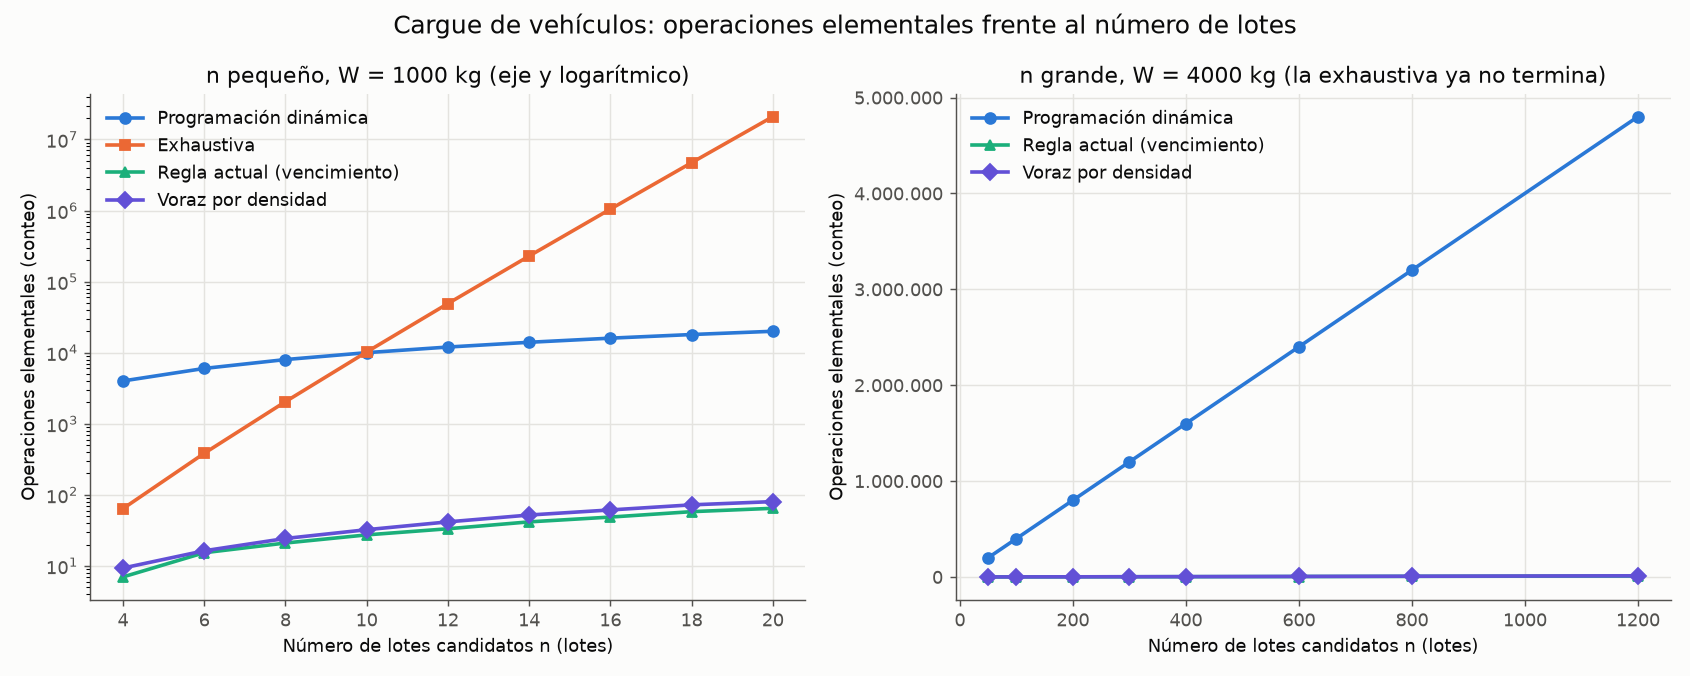
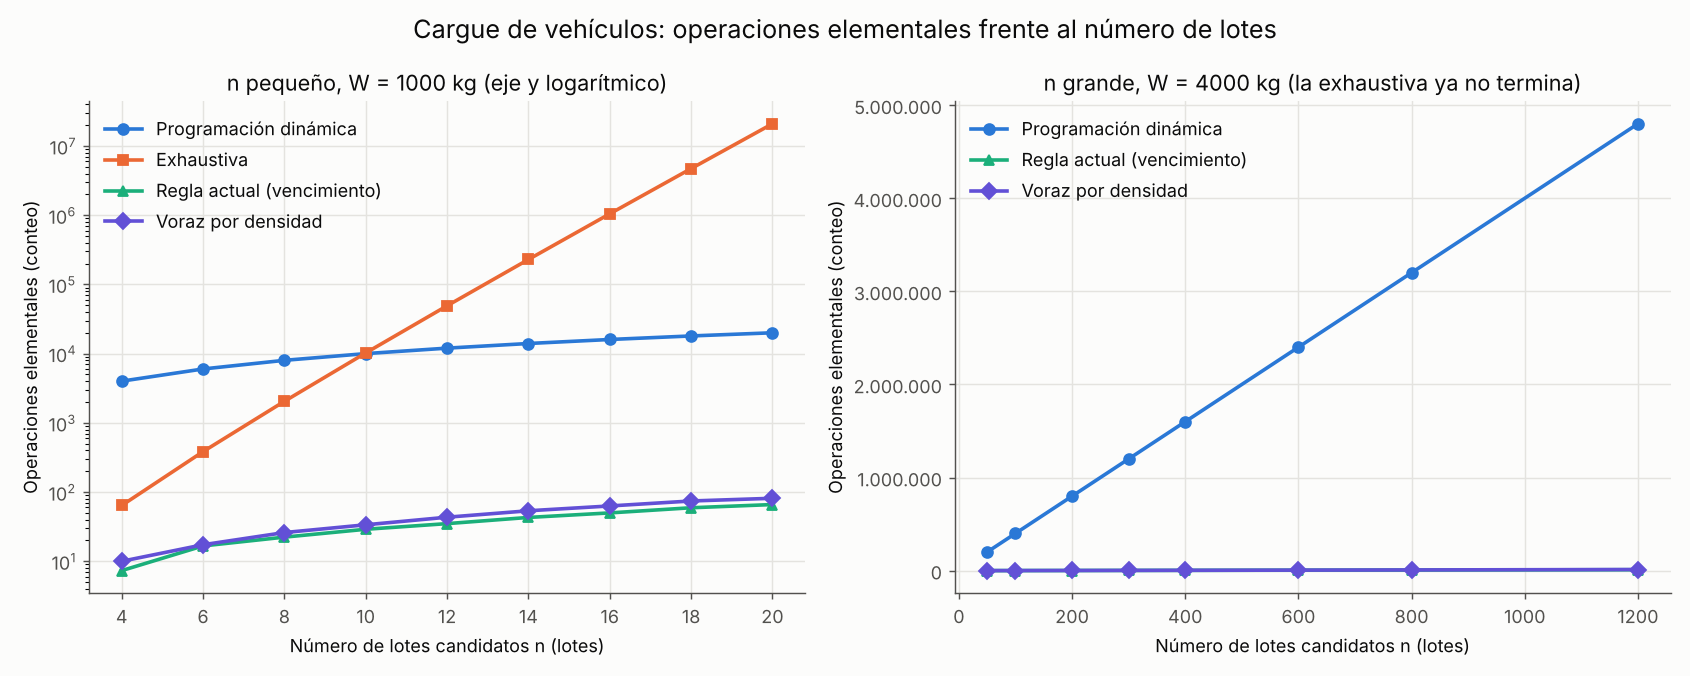
Cargue: graficas coherentes con el informe final

diff --git a/graficas/cargue_vehiculos/resumen.md b/graficas/cargue_vehiculos/resumen.md
@@ -6,53 +6,53 @@ Generado por `medicion.py`; los números cambian un poco en cada computador.
 
 | Solución | Experimento | De → a | Tiempo × | Operaciones × | Esperado × |
 |---|---|---|---|---|---|
-| Programación dinámica | n pequeño (W = 1000) | 4 → 8 | 5.19 | 2.00 | 2.00 |
-| Programación dinámica | n pequeño (W = 1000) | 6 → 12 | 1.66 | 2.00 | 2.00 |
-| Programación dinámica | n pequeño (W = 1000) | 8 → 16 | 1.99 | 2.00 | 2.00 |
-| Programación dinámica | n pequeño (W = 1000) | 10 → 20 | 1.91 | 2.00 | 2.00 |
-| Exhaustiva | n pequeño (W = 1000) | 4 → 8 | 15.86 | 32.00 | 32.00 |
-| Exhaustiva | n pequeño (W = 1000) | 6 → 12 | 71.26 | 128.00 | 128.00 |
-| Exhaustiva | n pequeño (W = 1000) | 8 → 16 | 361.42 | 512.00 | 512.00 |
-| Exhaustiva | n pequeño (W = 1000) | 10 → 20 | 1719.82 | 2048.00 | 2048.00 |
-| Regla actual (vencimiento) | n pequeño (W = 1000) | 4 → 8 | 1.84 | 3.00 | 3.00 |
-| Regla actual (vencimiento) | n pequeño (W = 1000) | 6 → 12 | 1.39 | 2.17 | 2.77 |
-| Regla actual (vencimiento) | n pequeño (W = 1000) | 8 → 16 | 1.16 | 2.32 | 2.67 |
-| Regla actual (vencimiento) | n pequeño (W = 1000) | 10 → 20 | 1.43 | 2.37 | 2.60 |
-| Voraz por densidad | n pequeño (W = 1000) | 4 → 8 | 1.22 | 2.61 | 3.00 |
-| Voraz por densidad | n pequeño (W = 1000) | 6 → 12 | 1.40 | 2.55 | 2.77 |
-| Voraz por densidad | n pequeño (W = 1000) | 8 → 16 | 1.48 | 2.52 | 2.67 |
-| Voraz por densidad | n pequeño (W = 1000) | 10 → 20 | 5.79 | 2.48 | 2.60 |
-| Programación dinámica | n grande (W = 4000) | 50 → 100 | 1.96 | 2.00 | 2.00 |
-| Programación dinámica | n grande (W = 4000) | 100 → 200 | 1.90 | 2.00 | 2.00 |
-| Programación dinámica | n grande (W = 4000) | 200 → 400 | 2.08 | 2.00 | 2.00 |
-| Programación dinámica | n grande (W = 4000) | 300 → 600 | 1.99 | 2.00 | 2.00 |
-| Programación dinámica | n grande (W = 4000) | 400 → 800 | 1.98 | 2.00 | 2.00 |
-| Programación dinámica | n grande (W = 4000) | 600 → 1200 | 1.66 | 2.00 | 2.00 |
-| Regla actual (vencimiento) | n grande (W = 4000) | 50 → 100 | 2.20 | 2.35 | 2.35 |
-| Regla actual (vencimiento) | n grande (W = 4000) | 100 → 200 | 1.87 | 2.34 | 2.30 |
-| Regla actual (vencimiento) | n grande (W = 4000) | 200 → 400 | 2.68 | 2.26 | 2.26 |
-| Regla actual (vencimiento) | n grande (W = 4000) | 300 → 600 | 2.19 | 2.19 | 2.24 |
-| Regla actual (vencimiento) | n grande (W = 4000) | 400 → 800 | 1.95 | 2.20 | 2.23 |
-| Regla actual (vencimiento) | n grande (W = 4000) | 600 → 1200 | 1.53 | 2.17 | 2.22 |
-| Voraz por densidad | n grande (W = 4000) | 50 → 100 | 1.86 | 2.37 | 2.35 |
-| Voraz por densidad | n grande (W = 4000) | 100 → 200 | 2.67 | 2.31 | 2.30 |
-| Voraz por densidad | n grande (W = 4000) | 200 → 400 | 1.83 | 2.28 | 2.26 |
-| Voraz por densidad | n grande (W = 4000) | 300 → 600 | 2.46 | 2.24 | 2.24 |
-| Voraz por densidad | n grande (W = 4000) | 400 → 800 | 2.28 | 2.24 | 2.23 |
-| Voraz por densidad | n grande (W = 4000) | 600 → 1200 | 1.25 | 2.23 | 2.22 |
-| Programación dinámica | W creciente (n = 300) | 500 → 1000 | 3.12 | 2.00 | 2.00 |
-| Programación dinámica | W creciente (n = 300) | 1000 → 2000 | 2.51 | 2.00 | 2.00 |
-| Programación dinámica | W creciente (n = 300) | 2000 → 4000 | 2.17 | 2.00 | 2.00 |
-| Programación dinámica | W creciente (n = 300) | 4000 → 8000 | 2.96 | 2.00 | 2.00 |
-| Programación dinámica | W creciente (n = 300) | 8000 → 16000 | 2.49 | 2.00 | 2.00 |
+| Programación dinámica | n pequeño (W = 1000) | 4 → 8 | 3.44 | 2.00 | 2.00 |
+| Programación dinámica | n pequeño (W = 1000) | 6 → 12 | 1.77 | 2.00 | 2.00 |
+| Programación dinámica | n pequeño (W = 1000) | 8 → 16 | 1.11 | 2.00 | 2.00 |
+| Programación dinámica | n pequeño (W = 1000) | 10 → 20 | 1.53 | 2.00 | 2.00 |
+| Exhaustiva | n pequeño (W = 1000) | 4 → 8 | 6.29 | 32.00 | 32.00 |
+| Exhaustiva | n pequeño (W = 1000) | 6 → 12 | 61.70 | 128.00 | 128.00 |
+| Exhaustiva | n pequeño (W = 1000) | 8 → 16 | 388.23 | 512.00 | 512.00 |
+| Exhaustiva | n pequeño (W = 1000) | 10 → 20 | 1365.94 | 2048.00 | 2048.00 |
+| Regla actual (vencimiento) | n pequeño (W = 1000) | 4 → 8 | 1.11 | 3.05 | 3.00 |
+| Regla actual (vencimiento) | n pequeño (W = 1000) | 6 → 12 | 1.11 | 2.10 | 2.77 |
+| Regla actual (vencimiento) | n pequeño (W = 1000) | 8 → 16 | 1.22 | 2.24 | 2.67 |
+| Regla actual (vencimiento) | n pequeño (W = 1000) | 10 → 20 | 1.74 | 2.28 | 2.60 |
+| Voraz por densidad | n pequeño (W = 1000) | 4 → 8 | 1.19 | 2.60 | 3.00 |
+| Voraz por densidad | n pequeño (W = 1000) | 6 → 12 | 1.23 | 2.50 | 2.77 |
+| Voraz por densidad | n pequeño (W = 1000) | 8 → 16 | 1.47 | 2.42 | 2.67 |
+| Voraz por densidad | n pequeño (W = 1000) | 10 → 20 | 1.72 | 2.42 | 2.60 |
+| Programación dinámica | n grande (W = 4000) | 50 → 100 | 1.93 | 2.00 | 2.00 |
+| Programación dinámica | n grande (W = 4000) | 100 → 200 | 1.92 | 2.00 | 2.00 |
+| Programación dinámica | n grande (W = 4000) | 200 → 400 | 2.06 | 2.00 | 2.00 |
+| Programación dinámica | n grande (W = 4000) | 300 → 600 | 1.90 | 2.00 | 2.00 |
+| Programación dinámica | n grande (W = 4000) | 400 → 800 | 1.90 | 2.00 | 2.00 |
+| Programación dinámica | n grande (W = 4000) | 600 → 1200 | 1.99 | 2.00 | 2.00 |
+| Regla actual (vencimiento) | n grande (W = 4000) | 50 → 100 | 1.84 | 2.34 | 2.35 |
+| Regla actual (vencimiento) | n grande (W = 4000) | 100 → 200 | 1.76 | 2.33 | 2.30 |
+| Regla actual (vencimiento) | n grande (W = 4000) | 200 → 400 | 2.80 | 2.26 | 2.26 |
+| Regla actual (vencimiento) | n grande (W = 4000) | 300 → 600 | 2.07 | 2.19 | 2.24 |
+| Regla actual (vencimiento) | n grande (W = 4000) | 400 → 800 | 1.72 | 2.20 | 2.23 |
+| Regla actual (vencimiento) | n grande (W = 4000) | 600 → 1200 | 2.12 | 2.17 | 2.22 |
+| Voraz por densidad | n grande (W = 4000) | 50 → 100 | 2.13 | 2.37 | 2.35 |
+| Voraz por densidad | n grande (W = 4000) | 100 → 200 | 2.53 | 2.31 | 2.30 |
+| Voraz por densidad | n grande (W = 4000) | 200 → 400 | 2.01 | 2.28 | 2.26 |
+| Voraz por densidad | n grande (W = 4000) | 300 → 600 | 2.24 | 2.24 | 2.24 |
+| Voraz por densidad | n grande (W = 4000) | 400 → 800 | 2.04 | 2.24 | 2.23 |
+| Voraz por densidad | n grande (W = 4000) | 600 → 1200 | 2.21 | 2.23 | 2.22 |
+| Programación dinámica | W creciente (n = 300) | 500 → 1000 | 3.39 | 2.00 | 2.00 |
+| Programación dinámica | W creciente (n = 300) | 1000 → 2000 | 2.42 | 2.00 | 2.00 |
+| Programación dinámica | W creciente (n = 300) | 2000 → 4000 | 2.23 | 2.00 | 2.00 |
+| Programación dinámica | W creciente (n = 300) | 4000 → 8000 | 2.26 | 2.00 | 2.00 |
+| Programación dinámica | W creciente (n = 300) | 8000 → 16000 | 1.96 | 2.00 | 2.00 |
 
 ## Constantes ajustadas
 
-* Programación dinámica: 186.7 ns por celda (t ≈ c · n · (W + 1)).
-* Regla por vencimiento: 557.5 ns por unidad de n·log2 n.
-* Voraz por densidad: 767.6 ns por unidad de n·log2 n.
-* Exhaustiva: 215.27 ns por unidad de n·2^n.
-* Con la exhaustiva, en toda la ventana de 2 h cabe como máximo una ruta de n = 30 lotes.
+* Programación dinámica: 62.4 ns por celda (t ≈ c · n · (W + 1)).
+* Regla por vencimiento: 150.4 ns por unidad de n·log2 n.
+* Voraz por densidad: 212.0 ns por unidad de n·log2 n.
+* Exhaustiva: 62.47 ns por unidad de n·2^n.
+* Con la exhaustiva, en toda la ventana de 2 h cabe como máximo una ruta de n = 31 lotes.
 
 ## Extrapolación al volumen real (peor caso diario)
 
@@ -60,14 +60,14 @@ Generado por `medicion.py`; los números cambian un poco en cada computador.
 
 | Solución | Tiempo por día | % de la ventana de 2 h | Energía por día (kWh) | Energía por año (kWh) |
 |---|---|---|---|---|
-| Programación dinámica | 6.27 s | 0.0872 % | 0.000261 | 0.0954 |
-| Regla actual (vencimiento) | 43.22 ms | 0.0006 % | 1.8e-06 | 0.000657 |
-| Voraz por densidad | 59.51 ms | 0.000826 % | 2.48e-06 | 0.000905 |
-| Exhaustiva (n = 300, el caso más pequeño) | 5.84e+79 años | 2.56e+85 % | 7.67e+82 | 2.8e+85 |
+| Programación dinámica | 2.10 s | 0.0291 % | 8.74e-05 | 0.0319 |
+| Regla actual (vencimiento) | 11.66 ms | 0.000162 % | 4.86e-07 | 0.000177 |
+| Voraz por densidad | 16.43 ms | 0.000228 % | 6.85e-07 | 0.00025 |
+| Exhaustiva (n = 300, el caso más pequeño) | 1.69e+79 años | 7.42e+84 % | 2.23e+82 | 8.13e+84 |
 
-La exhaustiva tardaría 5.84e+79 años, 4.23e+69 veces la edad del universo.
+La exhaustiva tardaría 1.69e+79 años, 1.23e+69 veces la edad del universo.
 
-Diferencia anual de energía entre la programación dinámica y la regla actual: 0.0948 kWh (95 Wh).
+Diferencia anual de energía entre la programación dinámica y la regla actual: 0.0317 kWh (32 Wh).
 
 ## Un día simulado con el volumen real
 
@@ -75,9 +75,9 @@ Flota sintética (semilla 2026): 14 vehículos, 6193 lotes candidatos en total y
 
 | Solución | Tiempo medido del día | Valor nutricional total | Ocupación media | Ocupación mínima |
 |---|---|---|---|---|
-| Programación dinámica | 2.67 s | 637,554 (100.0 % del óptimo) | 100.0 % | 99.9 % |
-| Regla actual (vencimiento) | 55.75 ms | 270,154 (42.4 % del óptimo) | 94.2 % | 88.6 % |
-| Voraz por densidad | 52.96 ms | 635,971 (99.8 % del óptimo) | 99.7 % | 99.2 % |
+| Programación dinámica | 1.26 s | 637,554 (100.0 % del óptimo) | 100.0 % | 99.9 % |
+| Regla actual (vencimiento) | 8.49 ms | 270,154 (42.4 % del óptimo) | 94.2 % | 88.6 % |
+| Voraz por densidad | 11.85 ms | 635,971 (99.8 % del óptimo) | 99.7 % | 99.2 % |
 
 ## Fallos de las reglas en 1.000 instancias pequeñas
 
